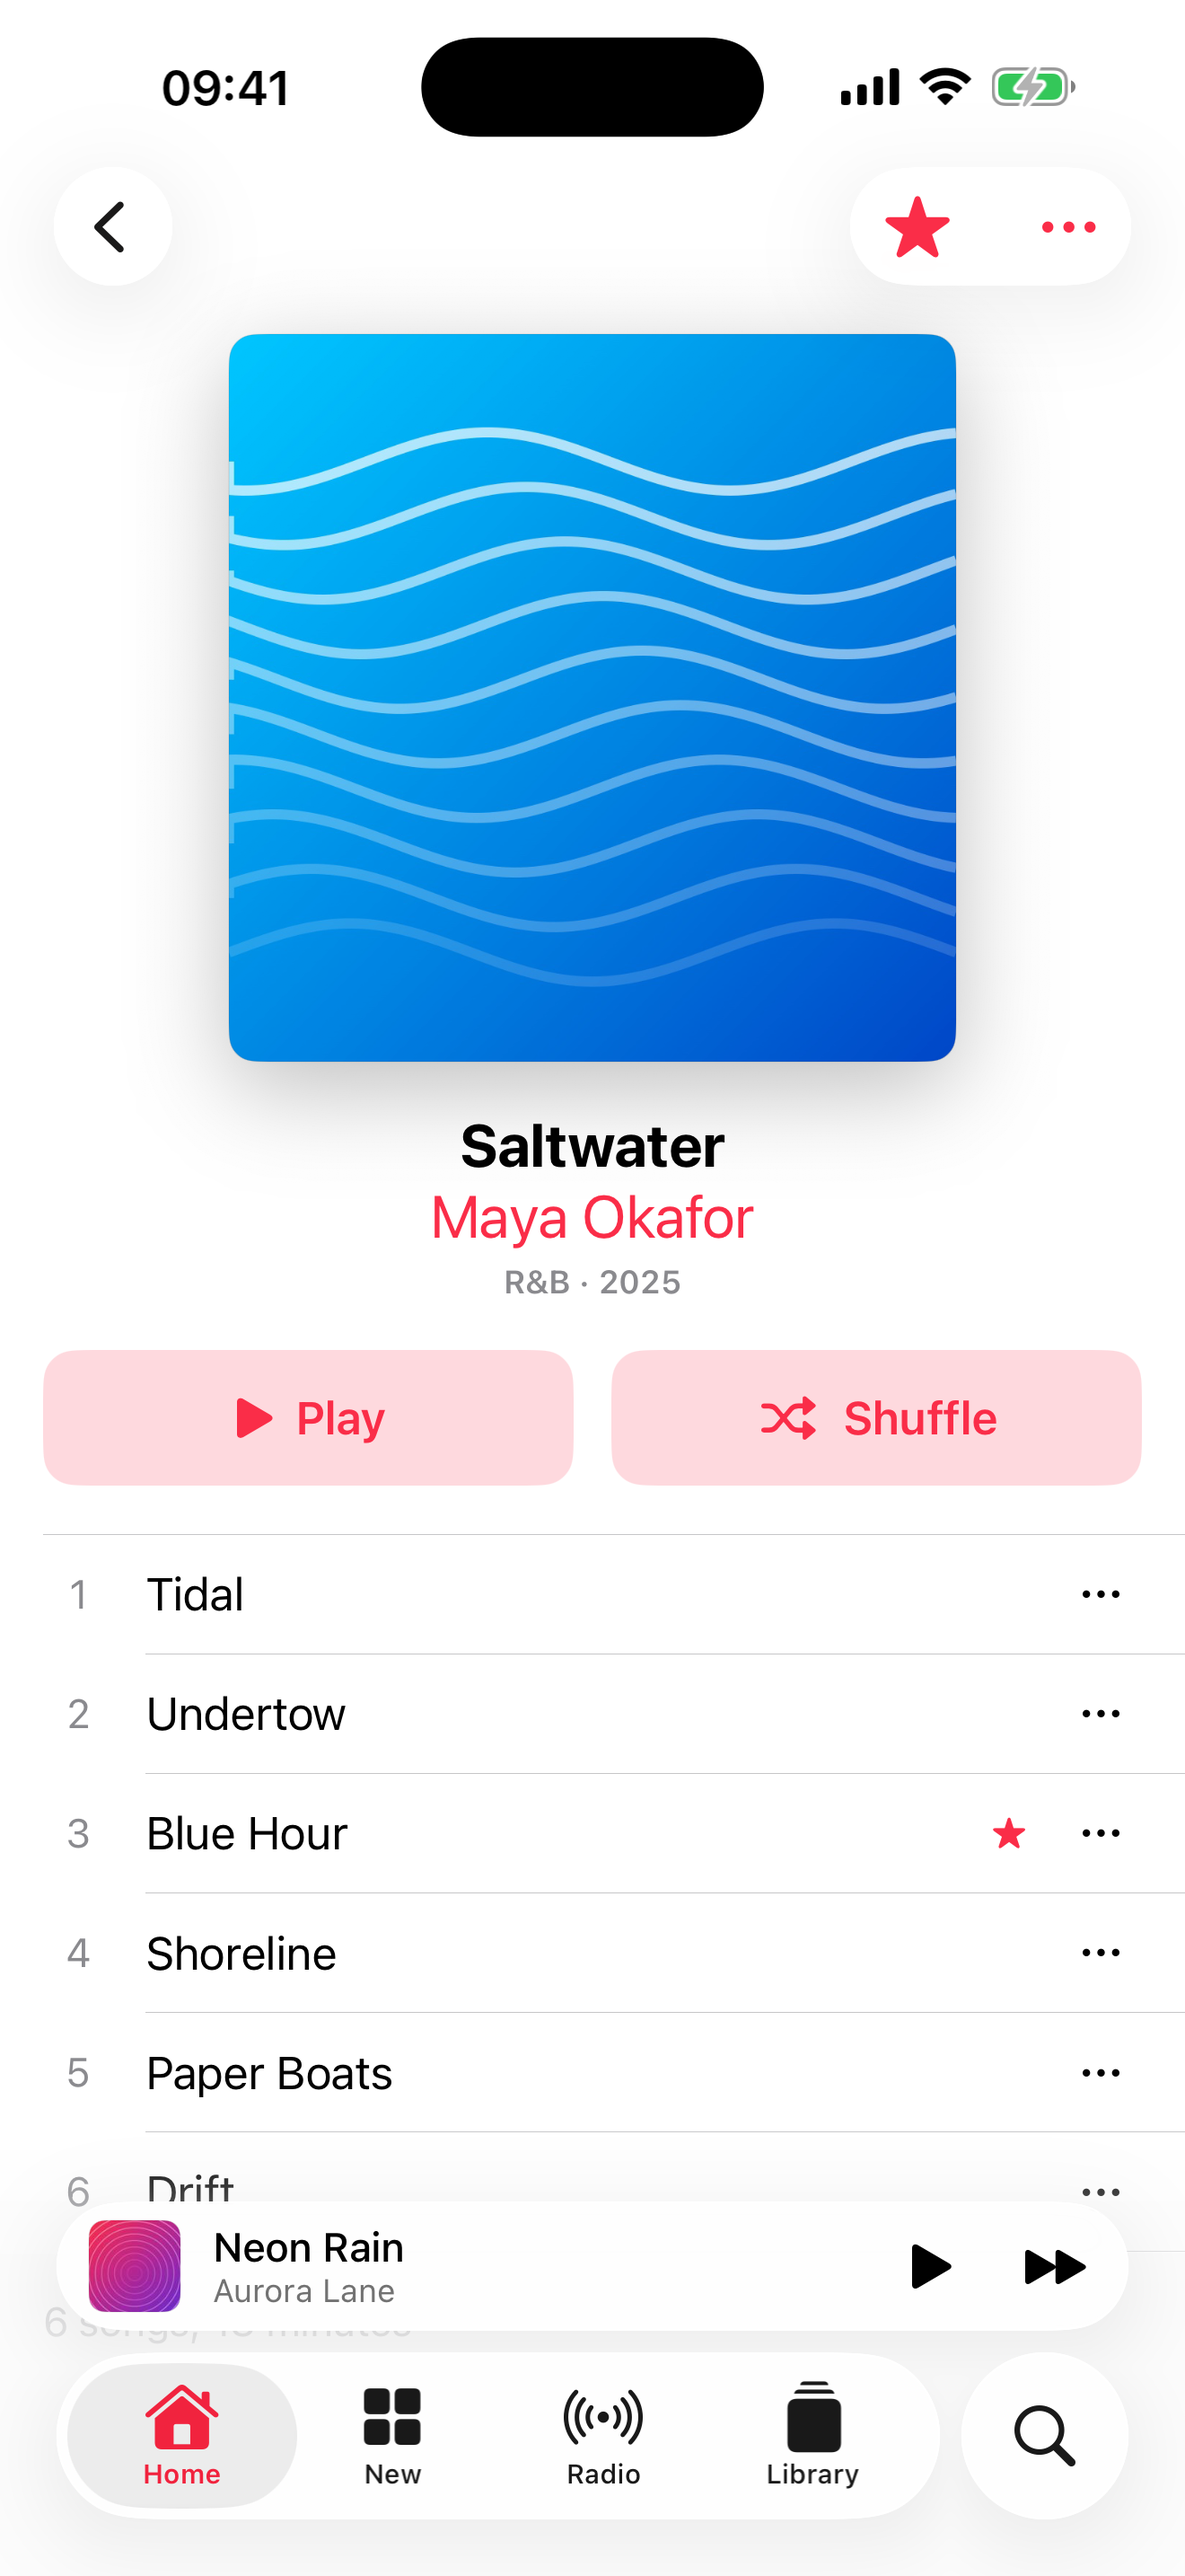
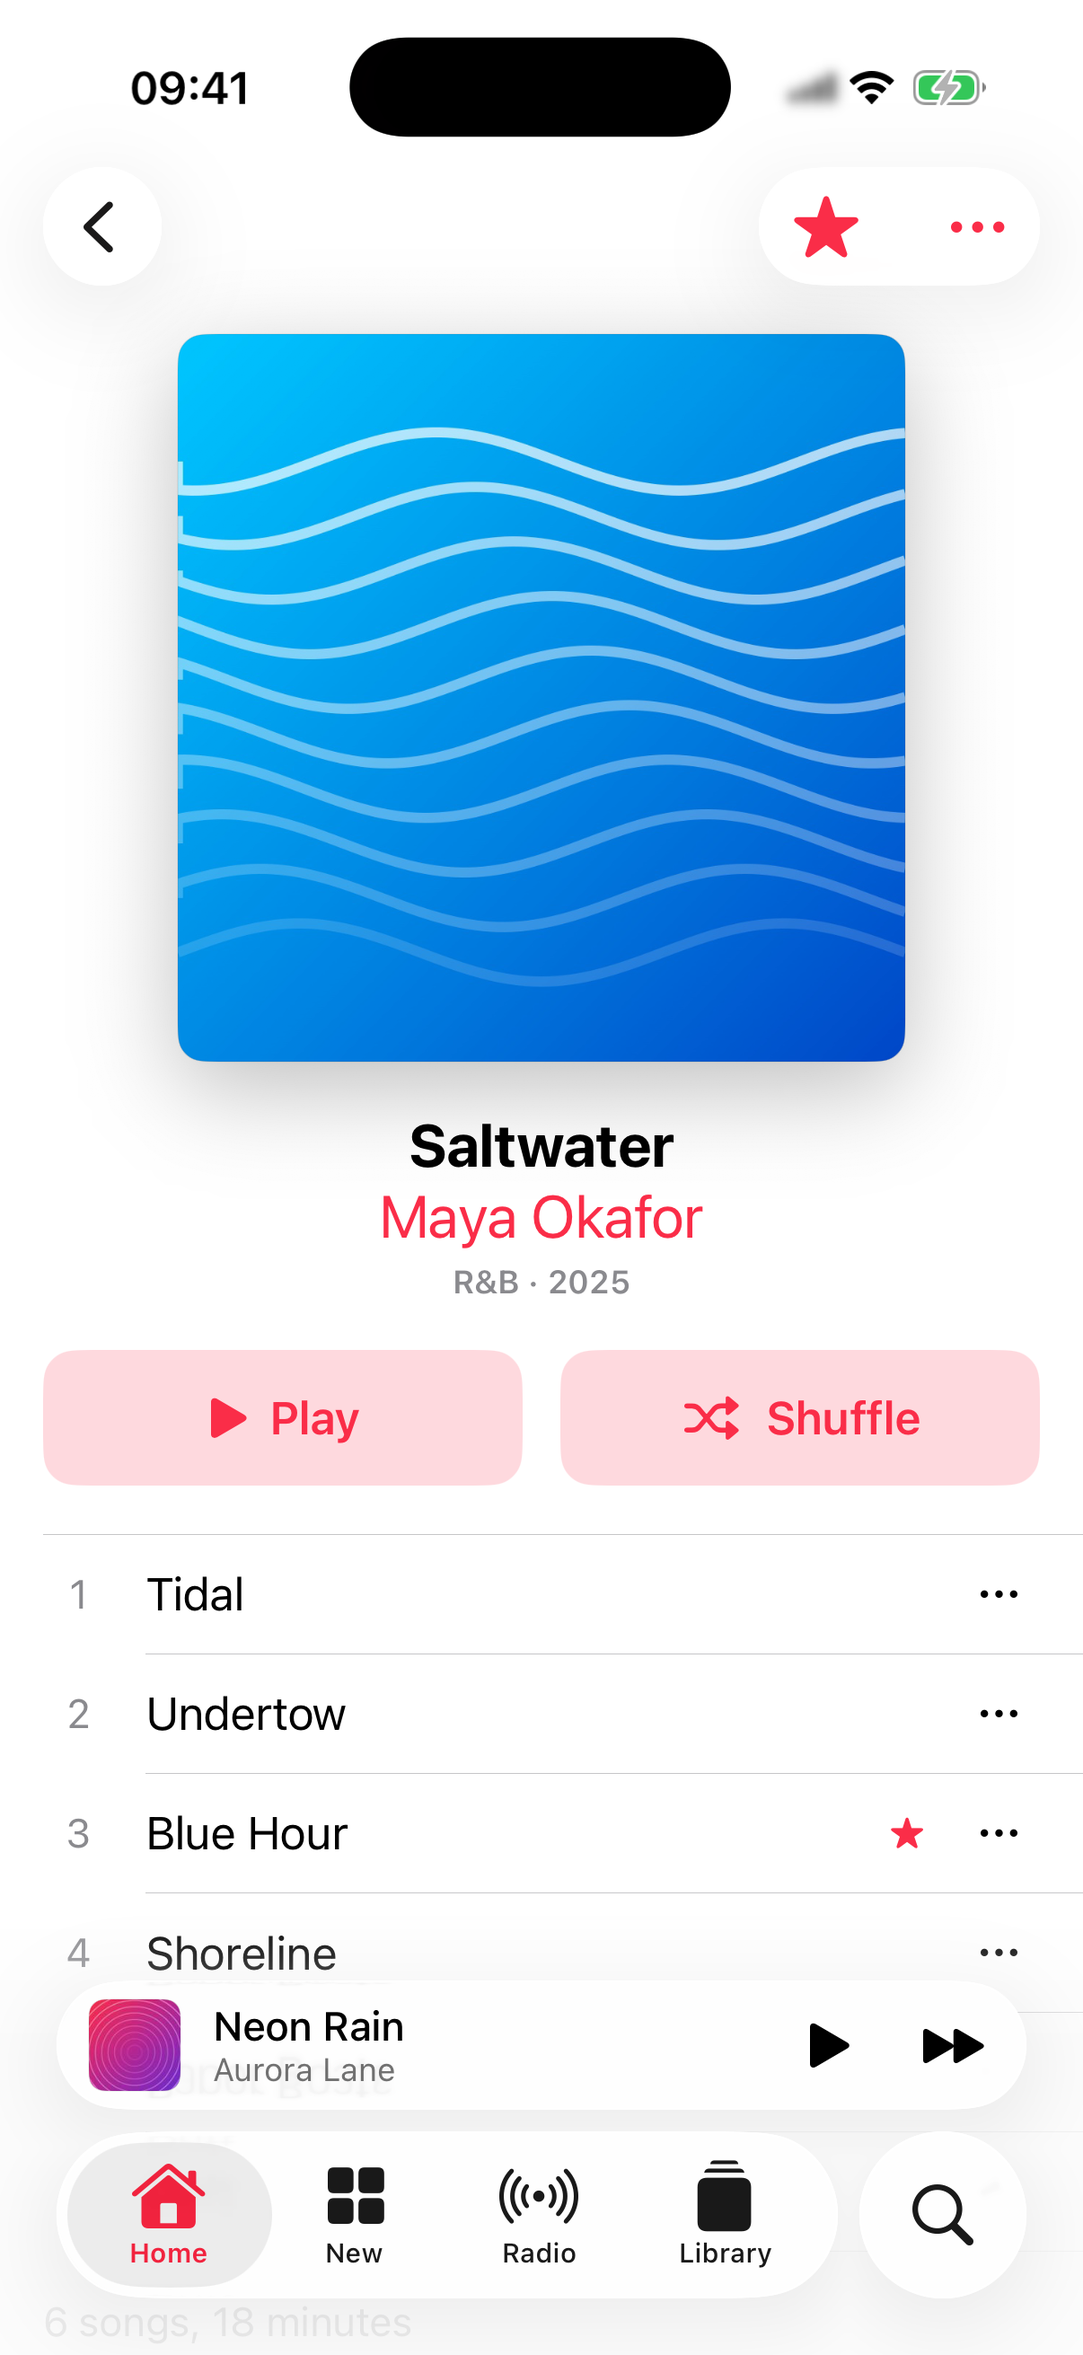
Retake iPhone screenshots at 1206x2622 for App Store Connect
App Store Connect now asks for the 6.1/6.3-inch size; the 6.9-inch set
is kept in screenshots/iphone-6.9.

diff --git a/APP_STORE.md b/APP_STORE.md
@@ -120,7 +120,7 @@ Google Cast needs a Chromecast on the same network; AirPlay uses the standard sy
 | Apple Watch (required for the Watch app) | 422 × 514 (Ultra) or 416 × 496 | Library, Downloads, Remote |
 | Mac (required) | 2880 × 1800 | Home with sidebar, Album, Lyrics panel |
 
-iPhone 6.9" screenshots are ready in `screenshots/iphone/` (1320 × 2868). They show an invented demo library with original generated artwork, so there's no third-party album art in the listing. Apple Watch screenshots (Ultra, 422 × 514) are in `screenshots/watch/` (`scripts/watch-screenshots.sh`), and Mac screenshots (2880 × 1800) are in `screenshots/mac/` (`scripts/mac-screenshots.sh`). To retake them, run a local Navidrome with demo content and use `scripts/screenshots.sh` (it uses the debug-only screenshot mode in `ScreenshotDirector.swift`).
+iPhone screenshots are ready in `screenshots/iphone/` at 1206 × 2622 (the 6.1"/6.3" size App Store Connect currently asks for), with a 6.9" set (1320 × 2868) in `screenshots/iphone-6.9/`. They show an invented demo library with original generated artwork, so there's no third-party album art in the listing. Apple Watch screenshots (Ultra, 422 × 514) are in `screenshots/watch/` (`scripts/watch-screenshots.sh`), and Mac screenshots (2880 × 1800) are in `screenshots/mac/` (`scripts/mac-screenshots.sh`). To retake them, run a local Navidrome with demo content and use `scripts/screenshots.sh` (it uses the debug-only screenshot mode in `ScreenshotDirector.swift`).
 
 ## 7. Open-source notes
 
